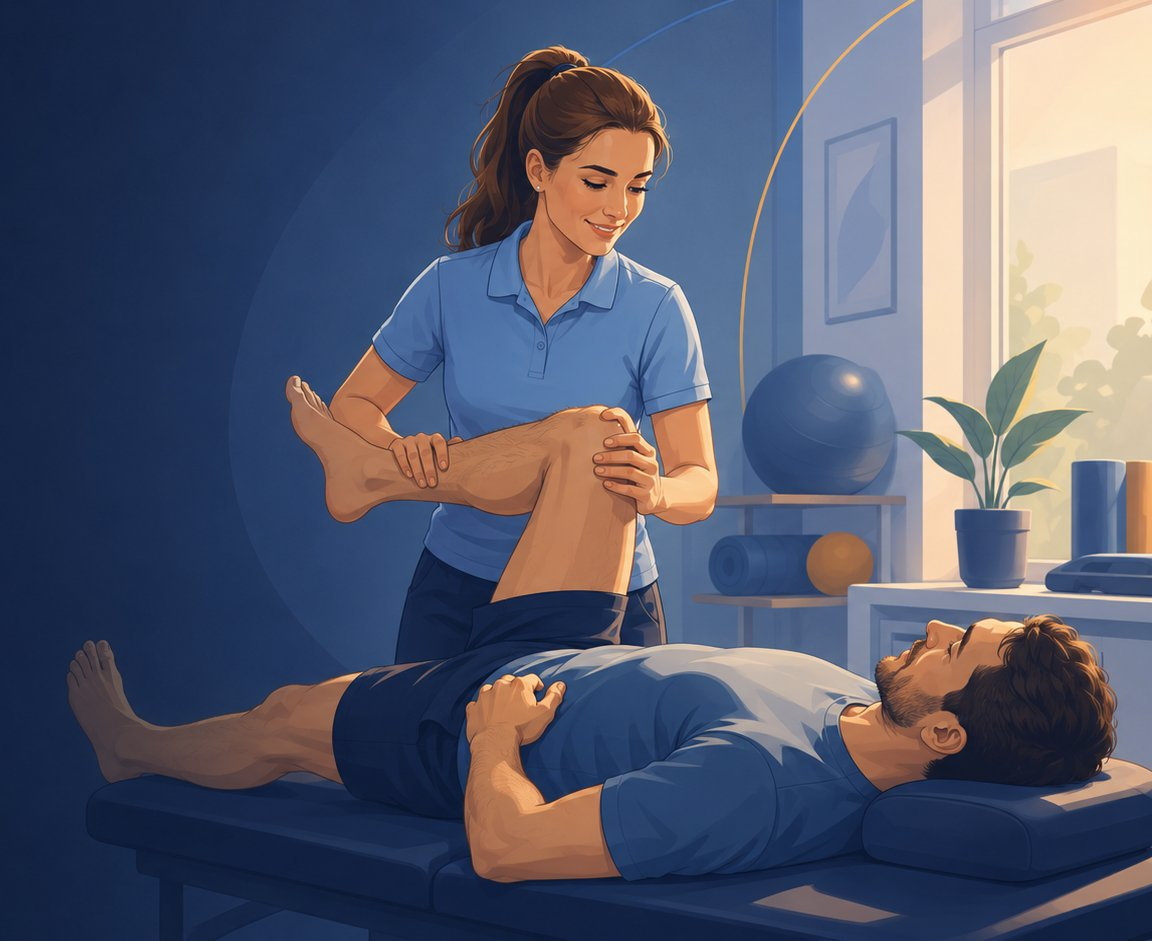
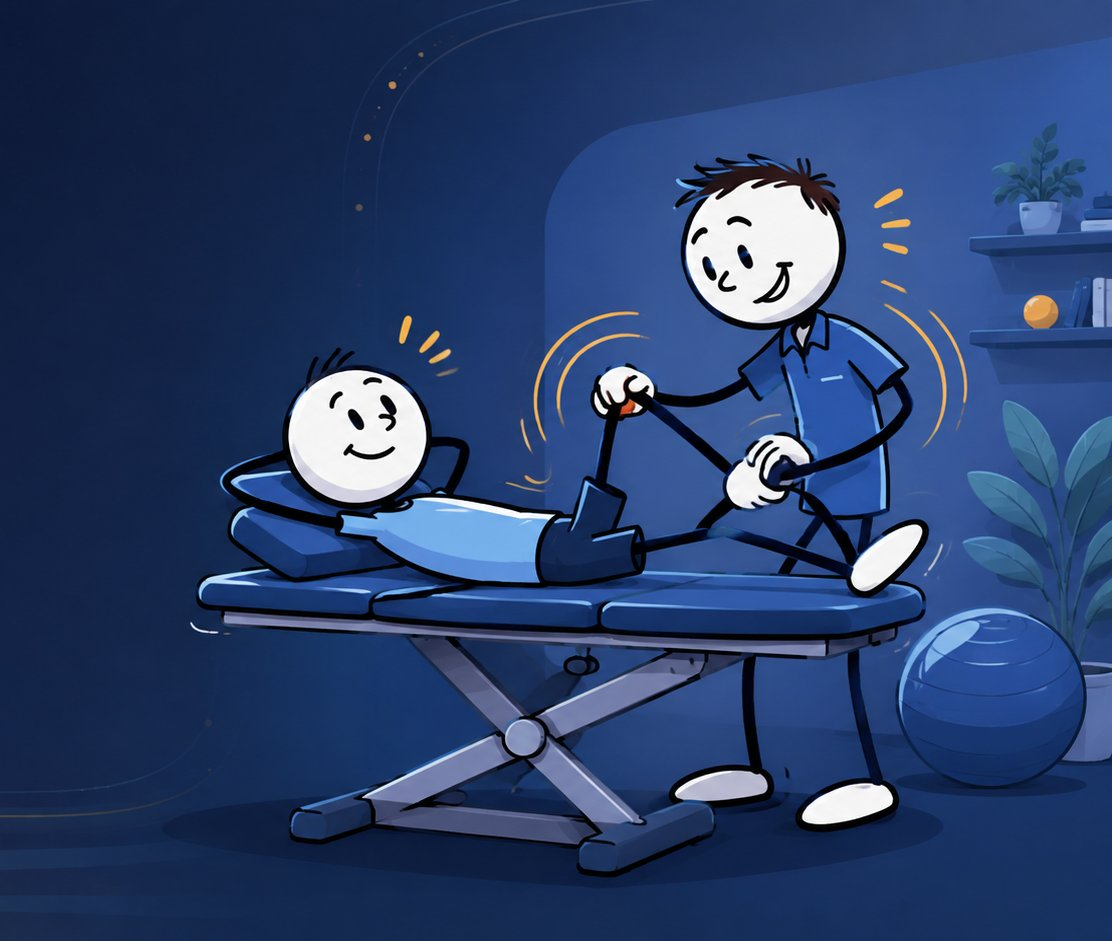
Neue Hero-Illustration eingesetzt
Andere Grafik im selben Stil und Seitenverhaeltnis: Behandlung auf der
Liege statt der vorherigen Szene, gleicher dunkler Navy-Grund, der
nahtlos in den Hero-Verlauf uebergeht. Zuschnitt und Aufbau bleiben
gleich (leerer linker Bereich groesstenteils entfernt, Verlaufsmaske
zum Hintergrund), das width-Attribut ist an das neue Seitenverhaeltnis
angepasst, um einen Sprung beim Laden zu vermeiden.

diff --git a/index.html b/index.html
@@ -327,7 +327,7 @@
   <div class="hero-visual" aria-hidden="true">
     <picture>
       <source srcset="img/hero-praxis.webp" type="image/webp">
-      <img src="img/hero-praxis.jpg" alt="" width="1152" height="941" loading="eager" fetchpriority="high" decoding="async">
+      <img src="img/hero-praxis.jpg" alt="" width="1112" height="941" loading="eager" fetchpriority="high" decoding="async">
     </picture>
   </div>
   <div class="wrap" style="width:100%">
